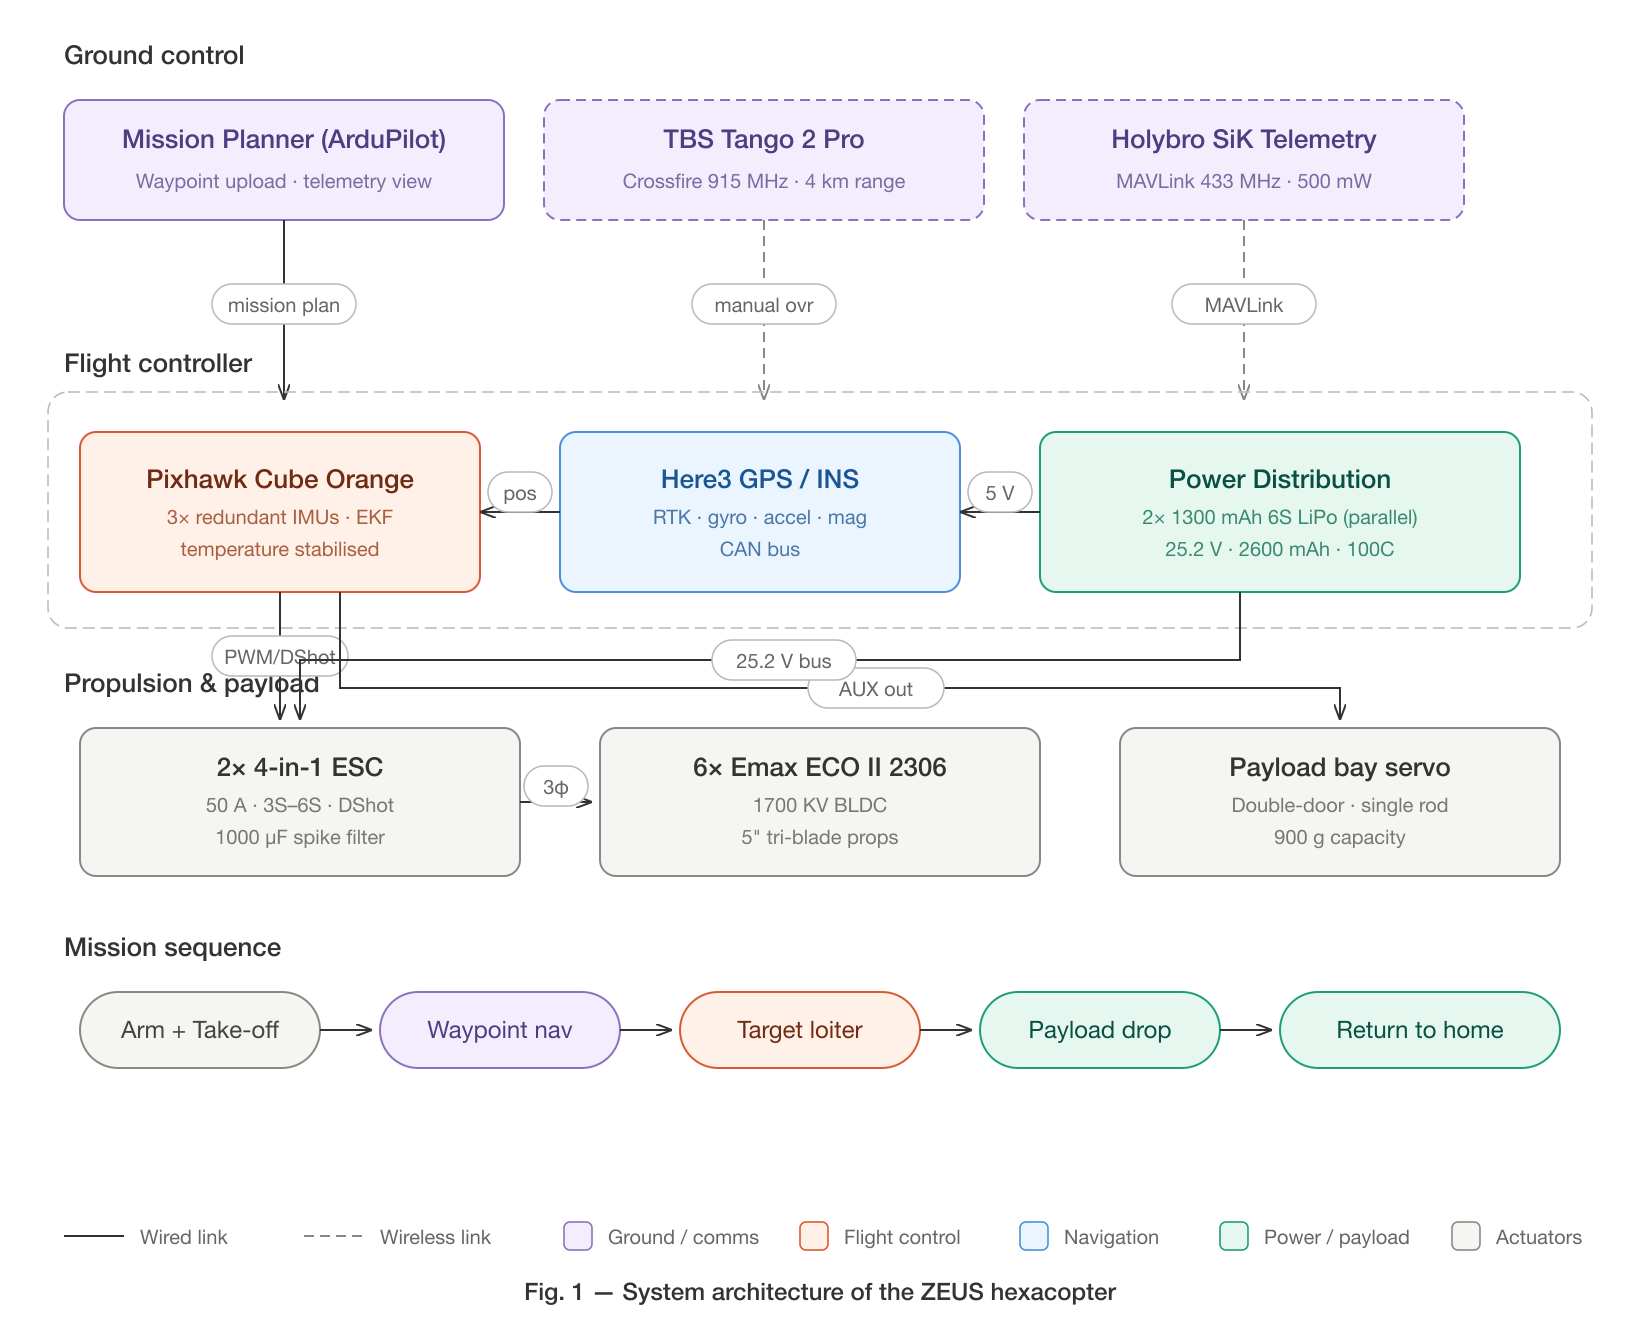
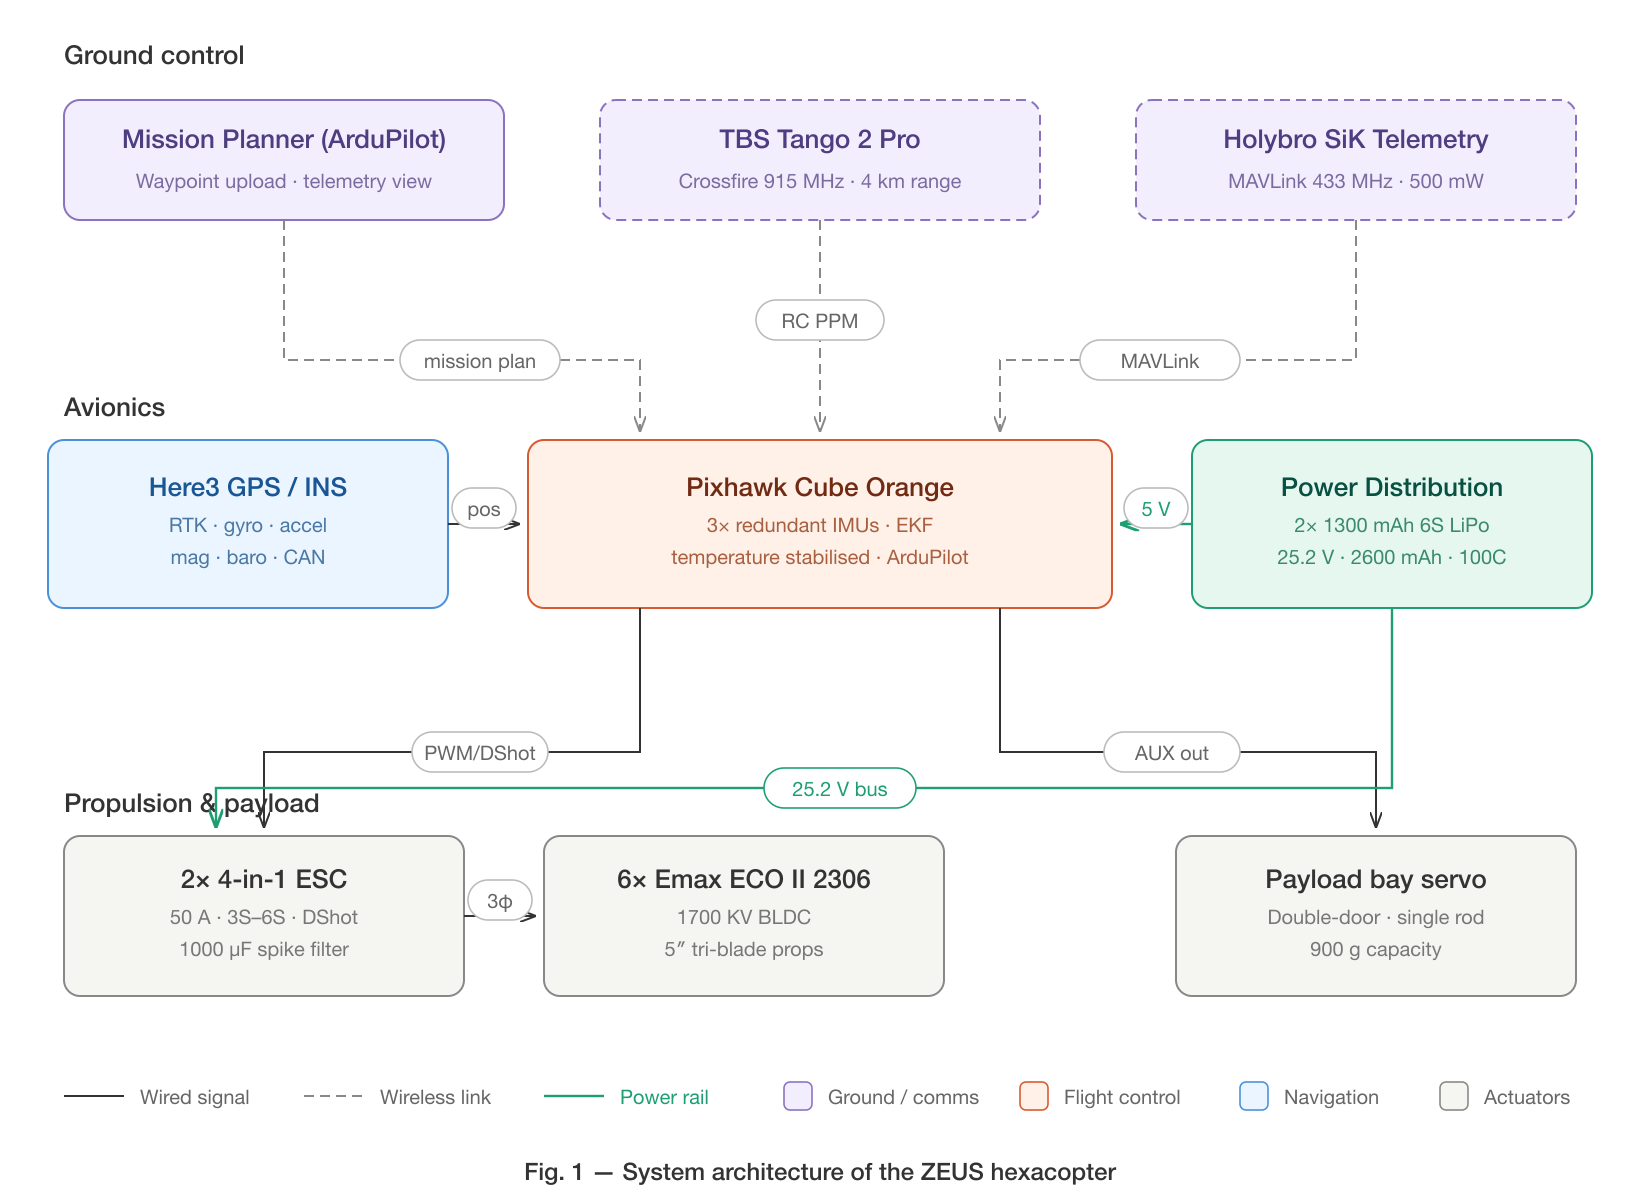
reframe as aero design project, add engineering drawing, fix architecture diagram

diff --git a/README.md b/README.md
@@ -1,12 +1,15 @@
 # ZEUS — Autonomous Payload-Delivery Hexacopter
 
-![ArduPilot](https://img.shields.io/badge/ArduPilot-Mission%20Planner-blue)
+![SAE India](https://img.shields.io/badge/SAE%20India-Sponsored-005CAB)
+![Competition](https://img.shields.io/badge/Rotorcraft%20Nitte-2024-orange)
 ![Pixhawk](https://img.shields.io/badge/Pixhawk-Cube%20Orange-red)
 ![Frame](https://img.shields.io/badge/Frame-Carbon%20Fiber-333)
 ![CAD](https://img.shields.io/badge/CAD-SolidWorks-CC0000)
 ![License](https://img.shields.io/badge/License-MIT-yellow)
 
-A custom-built hexacopter for autonomous waypoint missions with a 900 g servo-actuated payload drop. Designed and flown by **Team ASRL** at SRM Institute of Science and Technology for **Rotorcraft Nitte 2024** (Team No. ROTOR2407).
+> **Note —** This is an **aero design project**, not a software repository. There is no source code: the work covers conceptual design, weight & thrust budgeting, structural analysis, CAD, and the build itself. This repo holds the SolidWorks assets, the system architecture, and the engineering drawing produced for the design report.
+
+A custom-built hexacopter for autonomous waypoint missions with a 900 g servo-actuated payload drop. Designed and built by **Team ASRL** at SRM Institute of Science and Technology for **Rotorcraft Design Challenge — Nitte 2024**, the annual collegiate aero-design competition organised by **NMAM Institute of Technology** under the **SAE India Aerospace** banner (Team No. ROTOR2407).
 
 ## Overview
 
@@ -92,13 +95,30 @@ The payload bay sits below the frame on a double-door mechanism actuated by a si
 | Propellers, servo | — | 455 |
 | **Total** | | **₹1,14,628** |
 
+## Engineering Drawing
+
+Final dimensioned drawing from the design report — front, right, top, and isometric views with weight & balance summary.
+
+<p align="center">
+  <img src="engineering_drawing.png" width="100%" alt="ZEUS engineering drawing — front, right, top, isometric views with weight & balance"/>
+</p>
+
+| Parameter | Value |
+|---|---|
+| Length × Width × Height | 335.5 × 290.5 × 237.6 mm |
+| Empty weight | 1250 g |
+| Motor | Emax ECO II 2306, 1700 KV |
+| Propeller diameter | 130.55 mm (5″) |
+| Landing gear clearance | 100 mm |
+
 ## Repository Layout
 
 ```
 zeus/
-├── cad/              # SolidWorks parts, assemblies, and rendering setups
-├── architecture.svg  # System architecture diagram (vector)
-├── architecture.png  # Rendered architecture diagram
+├── cad/                     # SolidWorks parts, assemblies, and rendering setups
+├── architecture.svg         # System architecture diagram (vector)
+├── architecture.png         # Rendered architecture diagram
+├── engineering_drawing.png  # Final dimensioned drawing (4-view + W&B)
 └── README.md
 ```
 
